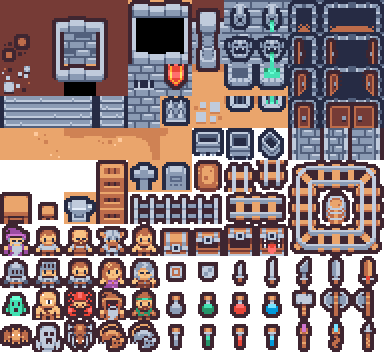
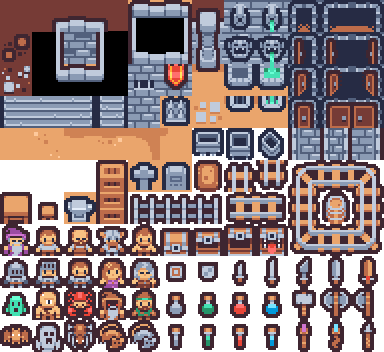
some more tile rules, have to think about north walls

Changed region(s): [[0.25, 0.0625, 0.3438, 0.2812], [0.0625, 0.0938, 0.1875, 0.2812]]

diff --git a/dist/index.js b/dist/index.js
@@ -1646,6 +1646,10 @@ tileFactory.anvil = new Tile2("X", false, true);
 tileFactory.bottomMiddleWall = new Tile2("~", false, true);
 tileFactory.bottomEastCornerWall = new Tile2("\u2510", false, true);
 tileFactory.bottomWestCornerWall = new Tile2("\u250C", false, true);
+tileFactory.sideWestWall = new Tile2("|", false, true);
+tileFactory.sideEastWall = new Tile2("i", false, true);
+tileFactory.cornerSouthEastWall = new Tile2("\u2518", false, true);
+tileFactory.cornerSouthWestWall = new Tile2("\u2514", false, true);
 tileFactory.downStairs = new Tile2(">", false, false);
 tileFactory.forwardSlash = new Tile2("/", false, true);
 tileFactory.backwardSlash = new Tile2("\\", false, true);
@@ -3784,15 +3788,6 @@ class LevelGenerator {
       case "X": {
         break;
       }
-      case "~":
-        this.map.setTile(pos, tileFactory_default.bottomMiddleWall);
-        break;
-      case "\u2510":
-        this.map.setTile(pos, tileFactory_default.bottomEastCornerWall);
-        break;
-      case "\u250C":
-        this.map.setTile(pos, tileFactory_default.bottomWestCornerWall);
-        break;
       case "T":
         this.map.setTile(pos, tileFactory_default.tombstone);
         break;
@@ -3867,13 +3862,21 @@ class LevelGenerator {
         if (!this.map.isWalkablePoint(p)) {
           const [nw, n, ne, e, se, s, sw, w] = this.map.getEightWallNeighbors(p);
           if (!n && s && w && e) {
-            this.setTile(p, "~");
+            this.map.setTile(p, tileFactory_default.bottomMiddleWall);
           } else if (!n && !s && !e && !w) {
             this.setTile(p, choice(["T", "t", "x"]));
           } else if (!n && !e && s && sw && w) {
-            this.setTile(p, "\u2510");
+            this.map.setTile(p, tileFactory_default.bottomEastCornerWall);
           } else if (!n && !w && s && se && e) {
-            this.setTile(p, "\u250C");
+            this.map.setTile(p, tileFactory_default.bottomWestCornerWall);
+          } else if (n && w && s && !e) {
+            this.map.setTile(p, tileFactory_default.sideWestWall);
+          } else if (n && e && s && !w) {
+            this.map.setTile(p, tileFactory_default.sideEastWall);
+          } else if (n && !nw && w) {
+            this.map.setTile(p, tileFactory_default.cornerSouthEastWall);
+          } else if (n && !ne && e) {
+            this.map.setTile(p, tileFactory_default.cornerSouthWestWall);
           }
         } else if (Math.random() < 0.05) {
           this.setTile(p, ",");
@@ -4197,7 +4200,11 @@ class Game {
         t: [160, 160],
         "~": [64, 64],
         "\u2510": [160, 0],
-        "\u250C": [128, 0]
+        "\u250C": [128, 0],
+        "|": [32, 32],
+        i: [96, 32],
+        "\u2518": [96, 64],
+        "\u2514": [32, 64]
       }
     });
     this.map = new GameMap(Config.width, Config.height);

diff --git a/src/generation/levelGenerator.ts b/src/generation/levelGenerator.ts
@@ -5,10 +5,7 @@ import tileFactory from "../tile/tileFactory";
 import { Point } from "../utility/point";
 import { choice } from "../utility/random";
 import { LEVELS } from "./levels";
-
 import { START_ROOM } from "./rooms";
-
-
 
 export abstract class LevelGenerator {
   map: GameMap
@@ -47,15 +44,6 @@ export abstract class LevelGenerator {
         // default is wall.
         break;
       }
-      case '~':
-        this.map.setTile(pos, tileFactory.bottomMiddleWall);
-        break;
-      case '┐':
-        this.map.setTile(pos, tileFactory.bottomEastCornerWall);
-        break;
-      case '┌':
-        this.map.setTile(pos, tileFactory.bottomWestCornerWall);
-        break;
       case 'T':
         this.map.setTile(pos, tileFactory.tombstone);
         break;
@@ -137,16 +125,25 @@ export abstract class LevelGenerator {
           // get neighbors for if it is wall or not
           const [nw, n, ne, e, se, s, sw, w] = this.map.getEightWallNeighbors(p);
 
+          // we avoid setTile to save some execution time because we know exactly 
+          // what we want to happen when decorating in this context
           if (!n && s && w && e) {
-            // Wall tile that is surrounded except for ground above it
-            this.setTile(p, '~');
+            this.map.setTile(p, tileFactory.bottomMiddleWall);
           } else if (!n && !s && !e && !w) {
             // nothing around this tile
             this.setTile(p, choice(['T', 't', 'x'])); // TODO: I thinkt that this conditional is wrong
           } else if (!n && !e && s && sw && w) {
-            this.setTile(p, '┐');
+            this.map.setTile(p, tileFactory.bottomEastCornerWall);
           } else if (!n && !w && s && se && e) {
-            this.setTile(p, '┌');
+            this.map.setTile(p, tileFactory.bottomWestCornerWall);
+          } else if (n && w && s && !e) {
+            this.map.setTile(p, tileFactory.sideWestWall);
+          } else if (n && e && s && !w) {
+            this.map.setTile(p, tileFactory.sideEastWall);
+          } else if (n && !nw && w) {
+            this.map.setTile(p, tileFactory.cornerSouthEastWall);
+          } else if (n && !ne && e) {
+            this.map.setTile(p, tileFactory.cornerSouthWestWall);
           }
         } else if (Math.random() < 0.05) {
           // random chance to decorate the ground with some cobblestones

diff --git a/src/tile/tileFactory.ts b/src/tile/tileFactory.ts
@@ -70,6 +70,49 @@ tileFactory.bottomWestCornerWall = new Tile(
   true,
 );
 
+
+// XX.
+// X*.
+// XX.
+// * is where this wall should be placed
+tileFactory.sideWestWall = new Tile(
+  '|',
+  false,
+  true,
+);
+
+// .XX
+// .*X
+// .XX
+// * is where this wall should be placed
+tileFactory.sideEastWall = new Tile(
+  'i',
+  false,
+  true,
+);
+
+// XX.
+// X*.
+// ...
+// 
+// * is where this wall should be placed
+tileFactory.cornerSouthEastWall = new Tile(
+  '┘',
+  false,
+  true,
+);
+
+// XX.
+// X*.
+// ...
+// 
+// * is where this wall should be placed
+tileFactory.cornerSouthWestWall = new Tile(
+  '└',
+  false,
+  true,
+);
+
 tileFactory.downStairs = new Tile(
   '>',
   false,

diff --git a/src/game/game.ts b/src/game/game.ts
@@ -60,6 +60,10 @@ export class Game {
         '~': [64, 64],   // bottom wall, middle in sequence, nothing above it
         '┐': [160, 0],   // bottom wall corner with empty spaces n, ne, e
         '┌': [128, 0],   // botoom wall corner with empty spaces n, nw, w
+        '|': [32, 32],   // Side wall with empty space to W and walls n, e, se
+        'i': [96, 32],   // Side wall with empty space to E and walls n, w, sw 
+        '┘': [96, 64],   // connects walls vertical and horizontal lines with empty space NE. 
+        '└': [32, 64],   // connects walls vertical and horizontal lines with empty space NW
       },
     });
 
